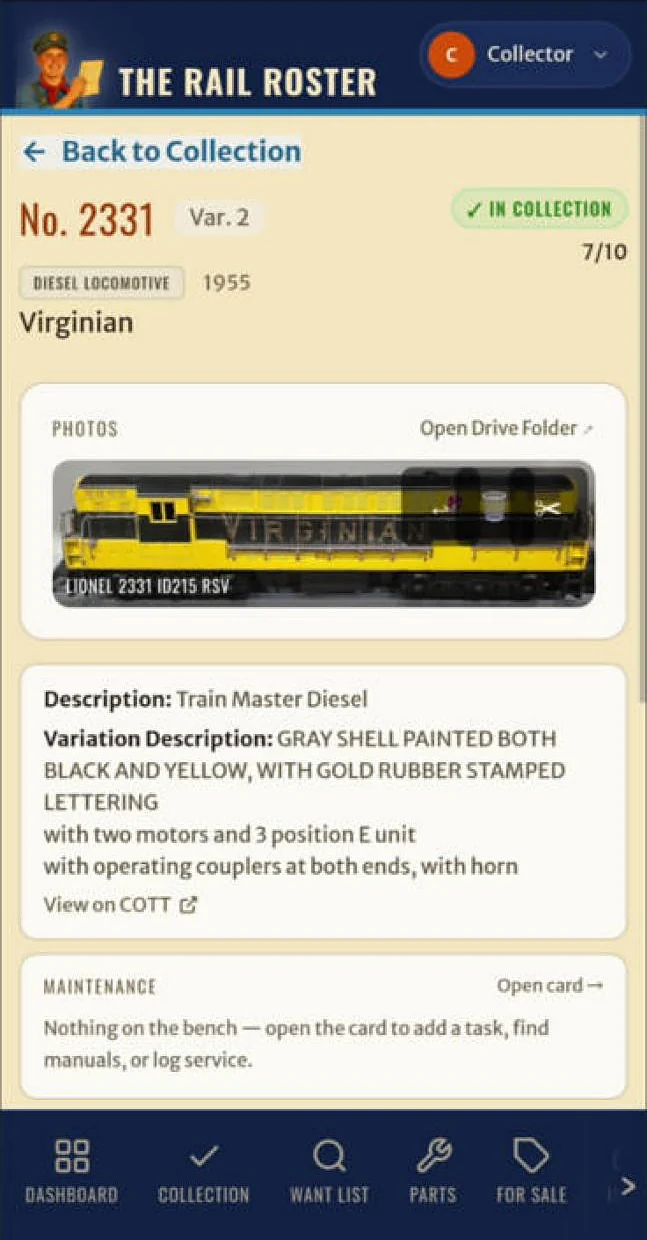
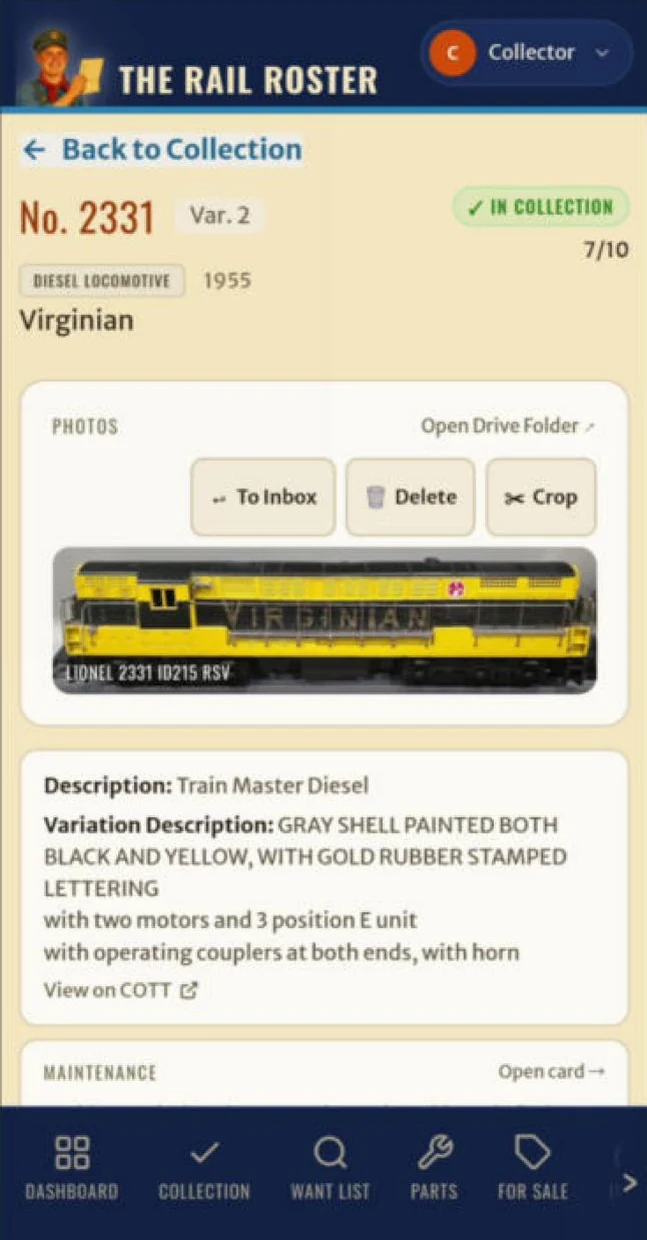
site: computer loop under "What it does", "On a computer" / "On your phone" labels, fresh 2331 phone picture (hidden preview address, no app change)
Brad 2026-10-17: "could we have a small video showing the desktop with the pictures scrolling by in a loop?" -> "place it here, move the add your trains fast down" -> plan -> "go" -> preview recording reviewed -> "ship it".

preview-1051ec16/index.html
- On a computer (>= 860px) a laptop sits under the "What it does" intro, labelled "On a computer". The five computer screens (dashboard, collection, 2331 item page, adding an item, For Sale) slide past one after another, about every 4.5 s, and carry on to the first again without jumping back. Caption per screen, dots to jump, click opens full size (same lightbox).
- It waits while the mouse is over it, while a picture is open, while it is off screen or the tab is hidden; it never moves on its own when the computer is set to reduce motion.
- Phones never show it, and its pictures are not downloaded there (lazy until the loop is visible on a computer).
- Each phone picture beside the points is labelled "On your phone" on a computer.
- "Same collection, every screen" now shows on phones only (a computer has the loop).

site/shots/item.webp — fresh phone picture of the 2331 page (To Inbox / Delete / Crop now above the photo; the old one caught the buttons half-faded over the train).
site/desk/forsale.webp — new computer picture of the For Sale list (demo account).
site/desk/item-full.webp — the full-height computer item page for the loop (desk/item.webp, the cropped one, stays for the phone grid).
[…]

diff --git a/preview-1051ec16/index.html b/preview-1051ec16/index.html
@@ -169,6 +169,34 @@ try {
   .dgrid img { width: 100%; height: auto; border-radius: 8px; border: 1px solid #c9b78f; box-shadow: 0 10px 28px rgba(20,25,45,.18); }
   @media (min-width: 860px) { .dgrid { gap: 2rem; } .desk figcaption { font-size: .92rem; } }
 
+  /* Computer loop (Brad 2026-10-17): on a computer, the app's computer screens slide past inside a laptop, over and over,
+     right under the "What it does" intro. Phones don't get it — they keep the "Same collection, every screen" pictures,
+     which a computer no longer shows (the loop has the same screens). Each picture says which device it is. */
+  .dev-tag { display: block; font-family: var(--head); text-transform: uppercase; letter-spacing: .16em; font-size: .8rem;
+    color: var(--ink3); text-align: center; margin-bottom: .6rem; }
+  .dev-tag::before { content: ''; display: inline-block; width: .55rem; height: .55rem; background: var(--orange); border-radius: 2px;
+    margin-right: .45rem; vertical-align: .05em; }
+  .loop { display: none; }
+  @media (min-width: 860px) {
+    .loop { display: block; width: 88%; max-width: 860px; margin: 0 auto 3.2rem; }
+    #desk { display: none; }
+  }
+  .lscreen { background: #10182c; border: 12px solid #10182c; border-bottom-width: 16px; border-radius: 16px 16px 4px 4px;
+    box-shadow: 0 24px 60px rgba(20,25,45,.30); }
+  .lview { position: relative; overflow: hidden; aspect-ratio: 1539 / 784; background: var(--cream); border-radius: 2px; }
+  .ltrack { display: flex; height: 100%; transition: transform .9s cubic-bezier(.65,0,.35,1); }
+  .ltrack .zoom { flex: 0 0 100%; height: 100%; }
+  .ltrack img { width: 100%; height: 100%; object-fit: cover; object-position: top; }
+  .lbase { position: relative; height: 15px; margin: 0 -6%; border-radius: 0 0 14px 14px;
+    background: linear-gradient(#d3d6dd, #8e929c); box-shadow: 0 12px 24px rgba(20,25,45,.22); }
+  .lbase::before { content: ''; position: absolute; left: 50%; top: 0; width: 15%; height: 6px; transform: translateX(-50%);
+    background: #7c808a; border-radius: 0 0 8px 8px; }
+  .lcap { text-align: center; font-size: .95rem; color: var(--ink2); margin-top: 1.1rem; min-height: 1.5em; }
+  .ldots { display: flex; justify-content: center; gap: .55rem; margin-top: .55rem; }
+  .ldots button { width: 12px; height: 12px; padding: 0; border: 0; border-radius: 50%; background: #d8c69c; cursor: pointer; }
+  .ldots button.on { background: var(--orange); }
+  .ldots button:focus-visible { outline: 3px solid var(--orange); outline-offset: 2px; }
+
   /* Enlarged picture */
   .lightbox { position: fixed; inset: 0; z-index: 100; background: rgba(5,8,15,.97); display: none;
     flex-direction: column; align-items: center; justify-content: center; padding: 3.5rem 1rem 1.5rem; }
@@ -331,6 +359,20 @@ try {
     <h2>The only way to collect.</h2>
     <p class="intro">Everything you need to catalog, value and share your trains. Every screen below is the real app, with a real collection — tap a picture to see it full size.</p>
 
+    <div class="loop" id="loop" role="region" aria-roledescription="slide show" aria-label="The Rail Roster on a computer">
+      <span class="dev-tag">On a computer</span>
+      <div class="lscreen"><div class="lview"><div class="ltrack" id="loop-track">
+        <button class="zoom" type="button" data-full="/site/desk/dashboard.webp" data-cap="The dashboard: worth, counts and recent additions at a glance." aria-label="Enlarge: The dashboard: worth, counts and recent additions at a glance."><img src="/site/desk/dashboard.webp" width="1539" height="784" alt="The dashboard on a computer: worth, counts and recent additions at a glance." loading="lazy"></button>
+        <button class="zoom" type="button" data-full="/site/desk/collection.webp" data-cap="The full collection list — sets and engine-and-tender pairs kept together." aria-label="Enlarge: The full collection list — sets and engine-and-tender pairs kept together."><img src="/site/desk/collection.webp" width="1539" height="784" alt="The full collection list on a computer — sets and engine-and-tender pairs kept together." loading="lazy"></button>
+        <button class="zoom" type="button" data-full="/site/desk/item-full.webp" data-cap="An item’s page: the exact variation, your photo and every detail." aria-label="Enlarge: An item’s page: the exact variation, your photo and every detail."><img src="/site/desk/item-full.webp" width="1539" height="784" alt="The page for a Lionel 2331 Virginian on a computer: the exact variation, the photo and every detail." loading="lazy"></button>
+        <button class="zoom" type="button" data-full="/site/desk/add.webp" data-cap="Adding an item: type the number — it even tells you when you already have one." aria-label="Enlarge: Adding an item: type the number — it even tells you when you already have one."><img src="/site/desk/add.webp" width="1539" height="784" alt="Adding an item on a computer: type the number — it even tells you when you already have one." loading="lazy"></button>
+        <button class="zoom" type="button" data-full="/site/desk/forsale.webp" data-cap="Your For Sale list with asking prices — share it with a friend or your customers." aria-label="Enlarge: Your For Sale list with asking prices — share it with a friend or your customers."><img src="/site/desk/forsale.webp" width="1539" height="784" alt="The For Sale list on a computer, with asking prices and Share buttons." loading="lazy"></button>
+      </div></div></div>
+      <div class="lbase"></div>
+      <p class="lcap" id="loop-cap">The dashboard: worth, counts and recent additions at a glance.</p>
+      <div class="ldots" id="loop-dots"></div>
+    </div>
+
     <div class="bands">
       <div class="band">
         <div class="txt">
@@ -342,7 +384,7 @@ try {
             <li><span class="pt">Already have your list in <b>Excel</b>? Easily import it in minutes.</span></li>
           </ul>
         </div>
-        <div class="shot"><figure><button class="zoom" type="button" data-full="/site/shots/add.webp" data-cap="Type a number — the catalog fills in the rest." aria-label="Enlarge: Type a number — the catalog fills in the rest."><img src="/site/shots/add.webp" width="647" height="1240" alt="Typing 2343 on the Add screen finds the Santa Fe F3 in the catalog" loading="lazy"></button><figcaption>Type a number — the catalog fills in the rest.</figcaption></figure></div>
+        <div class="shot"><figure><span class="dev-tag">On your phone</span><button class="zoom" type="button" data-full="/site/shots/add.webp" data-cap="Type a number — the catalog fills in the rest." aria-label="Enlarge: Type a number — the catalog fills in the rest."><img src="/site/shots/add.webp" width="647" height="1240" alt="Typing 2343 on the Add screen finds the Santa Fe F3 in the catalog" loading="lazy"></button><figcaption>Type a number — the catalog fills in the rest.</figcaption></figure></div>
       </div>
       <div class="band flip">
         <div class="txt">
@@ -353,7 +395,7 @@ try {
             <li><span class="pt">Engines with their tenders, and diesel A and B units, kept together the way they run.</span></li>
           </ul>
         </div>
-        <div class="shot"><figure><button class="zoom" type="button" data-full="/site/shots/item.webp" data-cap="A postwar 2331 Virginian, variation and all." aria-label="Enlarge: A postwar 2331 Virginian, variation and all."><img src="/site/shots/item.webp" width="647" height="1240" alt="The page for a Lionel 2331 Virginian Train Master with its photo and variation" loading="lazy"></button><figcaption>A postwar 2331 Virginian, variation and all.</figcaption></figure></div>
+        <div class="shot"><figure><span class="dev-tag">On your phone</span><button class="zoom" type="button" data-full="/site/shots/item.webp" data-cap="A postwar 2331 Virginian, variation and all." aria-label="Enlarge: A postwar 2331 Virginian, variation and all."><img src="/site/shots/item.webp" width="647" height="1240" alt="The page for a Lionel 2331 Virginian Train Master with its photo and variation" loading="lazy"></button><figcaption>A postwar 2331 Virginian, variation and all.</figcaption></figure></div>
       </div>
       <div class="band">
         <div class="txt">
@@ -363,7 +405,7 @@ try {
             <li><span class="pt">Track each item’s <b>location</b> so you can remember where you put it.</span></li>
           </ul>
         </div>
-        <div class="shot"><figure><button class="zoom" type="button" data-full="/site/shots/collection.webp" data-cap="Your whole collection, with photos, in your pocket." aria-label="Enlarge: Your whole collection, with photos, in your pocket."><img src="/site/shots/collection.webp" width="647" height="1240" alt="A collection list in The Rail Roster on a phone" loading="lazy"></button><figcaption>Your whole collection, with photos, in your pocket.</figcaption></figure></div>
+        <div class="shot"><figure><span class="dev-tag">On your phone</span><button class="zoom" type="button" data-full="/site/shots/collection.webp" data-cap="Your whole collection, with photos, in your pocket." aria-label="Enlarge: Your whole collection, with photos, in your pocket."><img src="/site/shots/collection.webp" width="647" height="1240" alt="A collection list in The Rail Roster on a phone" loading="lazy"></button><figcaption>Your whole collection, with photos, in your pocket.</figcaption></figure></div>
       </div>
       <div class="band flip">
         <div class="txt">
@@ -373,7 +415,7 @@ try {
             <li><span class="pt">Print <b>insurance reports</b> in a few clicks — with photos — and keep every past report ready to send.</span></li>
           </ul>
         </div>
-        <div class="shot"><figure><button class="zoom" type="button" data-full="/site/shots/worth.webp" data-cap="Estimated worth by maker, at a glance." aria-label="Enlarge: Estimated worth by maker, at a glance."><img src="/site/shots/worth.webp" width="647" height="1240" alt="The Rail Roster dashboard showing a collection's estimated worth" loading="lazy"></button><figcaption>Estimated worth by maker, at a glance.</figcaption></figure></div>
+        <div class="shot"><figure><span class="dev-tag">On your phone</span><button class="zoom" type="button" data-full="/site/shots/worth.webp" data-cap="Estimated worth by maker, at a glance." aria-label="Enlarge: Estimated worth by maker, at a glance."><img src="/site/shots/worth.webp" width="647" height="1240" alt="The Rail Roster dashboard showing a collection's estimated worth" loading="lazy"></button><figcaption>Estimated worth by maker, at a glance.</figcaption></figure></div>
       </div>
       <div class="band">
         <div class="txt">
@@ -383,7 +425,7 @@ try {
             <li><span class="pt">The people you send it to can open every photo at full size.</span></li>
           </ul>
         </div>
-        <div class="shot"><figure><button class="zoom" type="button" data-full="/site/shots/forsale.webp" data-cap="Your For Sale list — share it with one tap." aria-label="Enlarge: Your For Sale list — share it with one tap."><img src="/site/shots/forsale.webp" width="647" height="1240" alt="The For Sale list with Share buttons in The Rail Roster" loading="lazy"></button><figcaption>Your For Sale list — share it with one tap.</figcaption></figure></div>
+        <div class="shot"><figure><span class="dev-tag">On your phone</span><button class="zoom" type="button" data-full="/site/shots/forsale.webp" data-cap="Your For Sale list — share it with one tap." aria-label="Enlarge: Your For Sale list — share it with one tap."><img src="/site/shots/forsale.webp" width="647" height="1240" alt="The For Sale list with Share buttons in The Rail Roster" loading="lazy"></button><figcaption>Your For Sale list — share it with one tap.</figcaption></figure></div>
       </div>
     </div>
   </div>
@@ -619,6 +661,65 @@ try {
   fit();
   window.addEventListener('resize', fit);
   if (document.fonts && document.fonts.ready) document.fonts.ready.then(fit);
+})();
+</script>
+
+<script>
+/* The computer loop (Brad 2026-10-17). Every few seconds the next computer screen slides in; after the last one
+   it carries on to the first again without jumping back. It waits while the mouse is over it, while a picture is
+   open full size, while it's scrolled out of view or the tab is in the background, and never moves on its own
+   for anyone whose computer is set to reduce motion (the dots still step through). Phones never show it. */
+(function () {
+  var loop = document.getElementById('loop'), track = document.getElementById('loop-track');
+  if (!loop || !track) return;
+  var cap = document.getElementById('loop-cap'), dotsEl = document.getElementById('loop-dots'), lb = document.getElementById('lightbox');
+  var slides = Array.prototype.slice.call(track.children), n = slides.length, EVERY = 4500;
+  var still = !!(window.matchMedia && matchMedia('(prefers-reduced-motion: reduce)').matches);
+  var i = 0, over = false, inView = false, loaded = false;
+
+  var copy = slides[0].cloneNode(true);                     // the first screen again, so the last one slides into it smoothly
+  copy.setAttribute('aria-hidden', 'true'); copy.tabIndex = -1; track.appendChild(copy);
+
+  var dots = slides.map(function (s, k) {
+    var b = document.createElement('button'); b.type = 'button';
+    b.setAttribute('aria-label', 'Show screen ' + (k + 1) + ' of ' + n);
+    b.addEventListener('click', function () { go(k, true); });
+    dotsEl.appendChild(b); return b;
+  });
+
+  function go(k, animate) {
+    i = k;
+    track.style.transition = animate && !still ? '' : 'none';
+    track.style.transform = 'translateX(' + (-100 * k) + '%)';
+    var r = k % n;
+    cap.textContent = slides[r].getAttribute('data-cap');
+    dots.forEach(function (d, j) { d.classList.toggle('on', j === r); });
+    if (!animate || still) { void track.offsetWidth; track.style.transition = ''; if (k === n) go(0, false); }
+  }
+  track.addEventListener('transitionend', function (e) { if (e.target === track && i === n) go(0, false); });
+
+  function loadAll() {                                      // on a computer only, once it is on screen
+    if (loaded) return; loaded = true;
+    Array.prototype.forEach.call(track.querySelectorAll('img'), function (im) { im.loading = 'eager'; });
+  }
+  if ('IntersectionObserver' in window) {
+    new IntersectionObserver(function (es) {
+      inView = es[0].isIntersecting;
+      if (inView && loop.offsetWidth) loadAll();
+    }, { rootMargin: '300px 0px' }).observe(loop);
+  } else { inView = true; loadAll(); }
+
+  loop.addEventListener('mouseenter', function () { over = true; });
+  loop.addEventListener('mouseleave', function () { over = false; });
+  loop.addEventListener('focusin', function () { over = true; });
+  loop.addEventListener('focusout', function () { over = false; });
+
+  go(0, false);
+  if (!still) setInterval(function () {
+    if (over || !inView || document.hidden || !loop.offsetWidth || (lb && !lb.hidden)) return;
+    if (i >= n) go(0, false);                                // a slide-in that finished while the tab was hidden
+    go(i + 1, true);
+  }, EVERY);
 })();
 </script>
 
